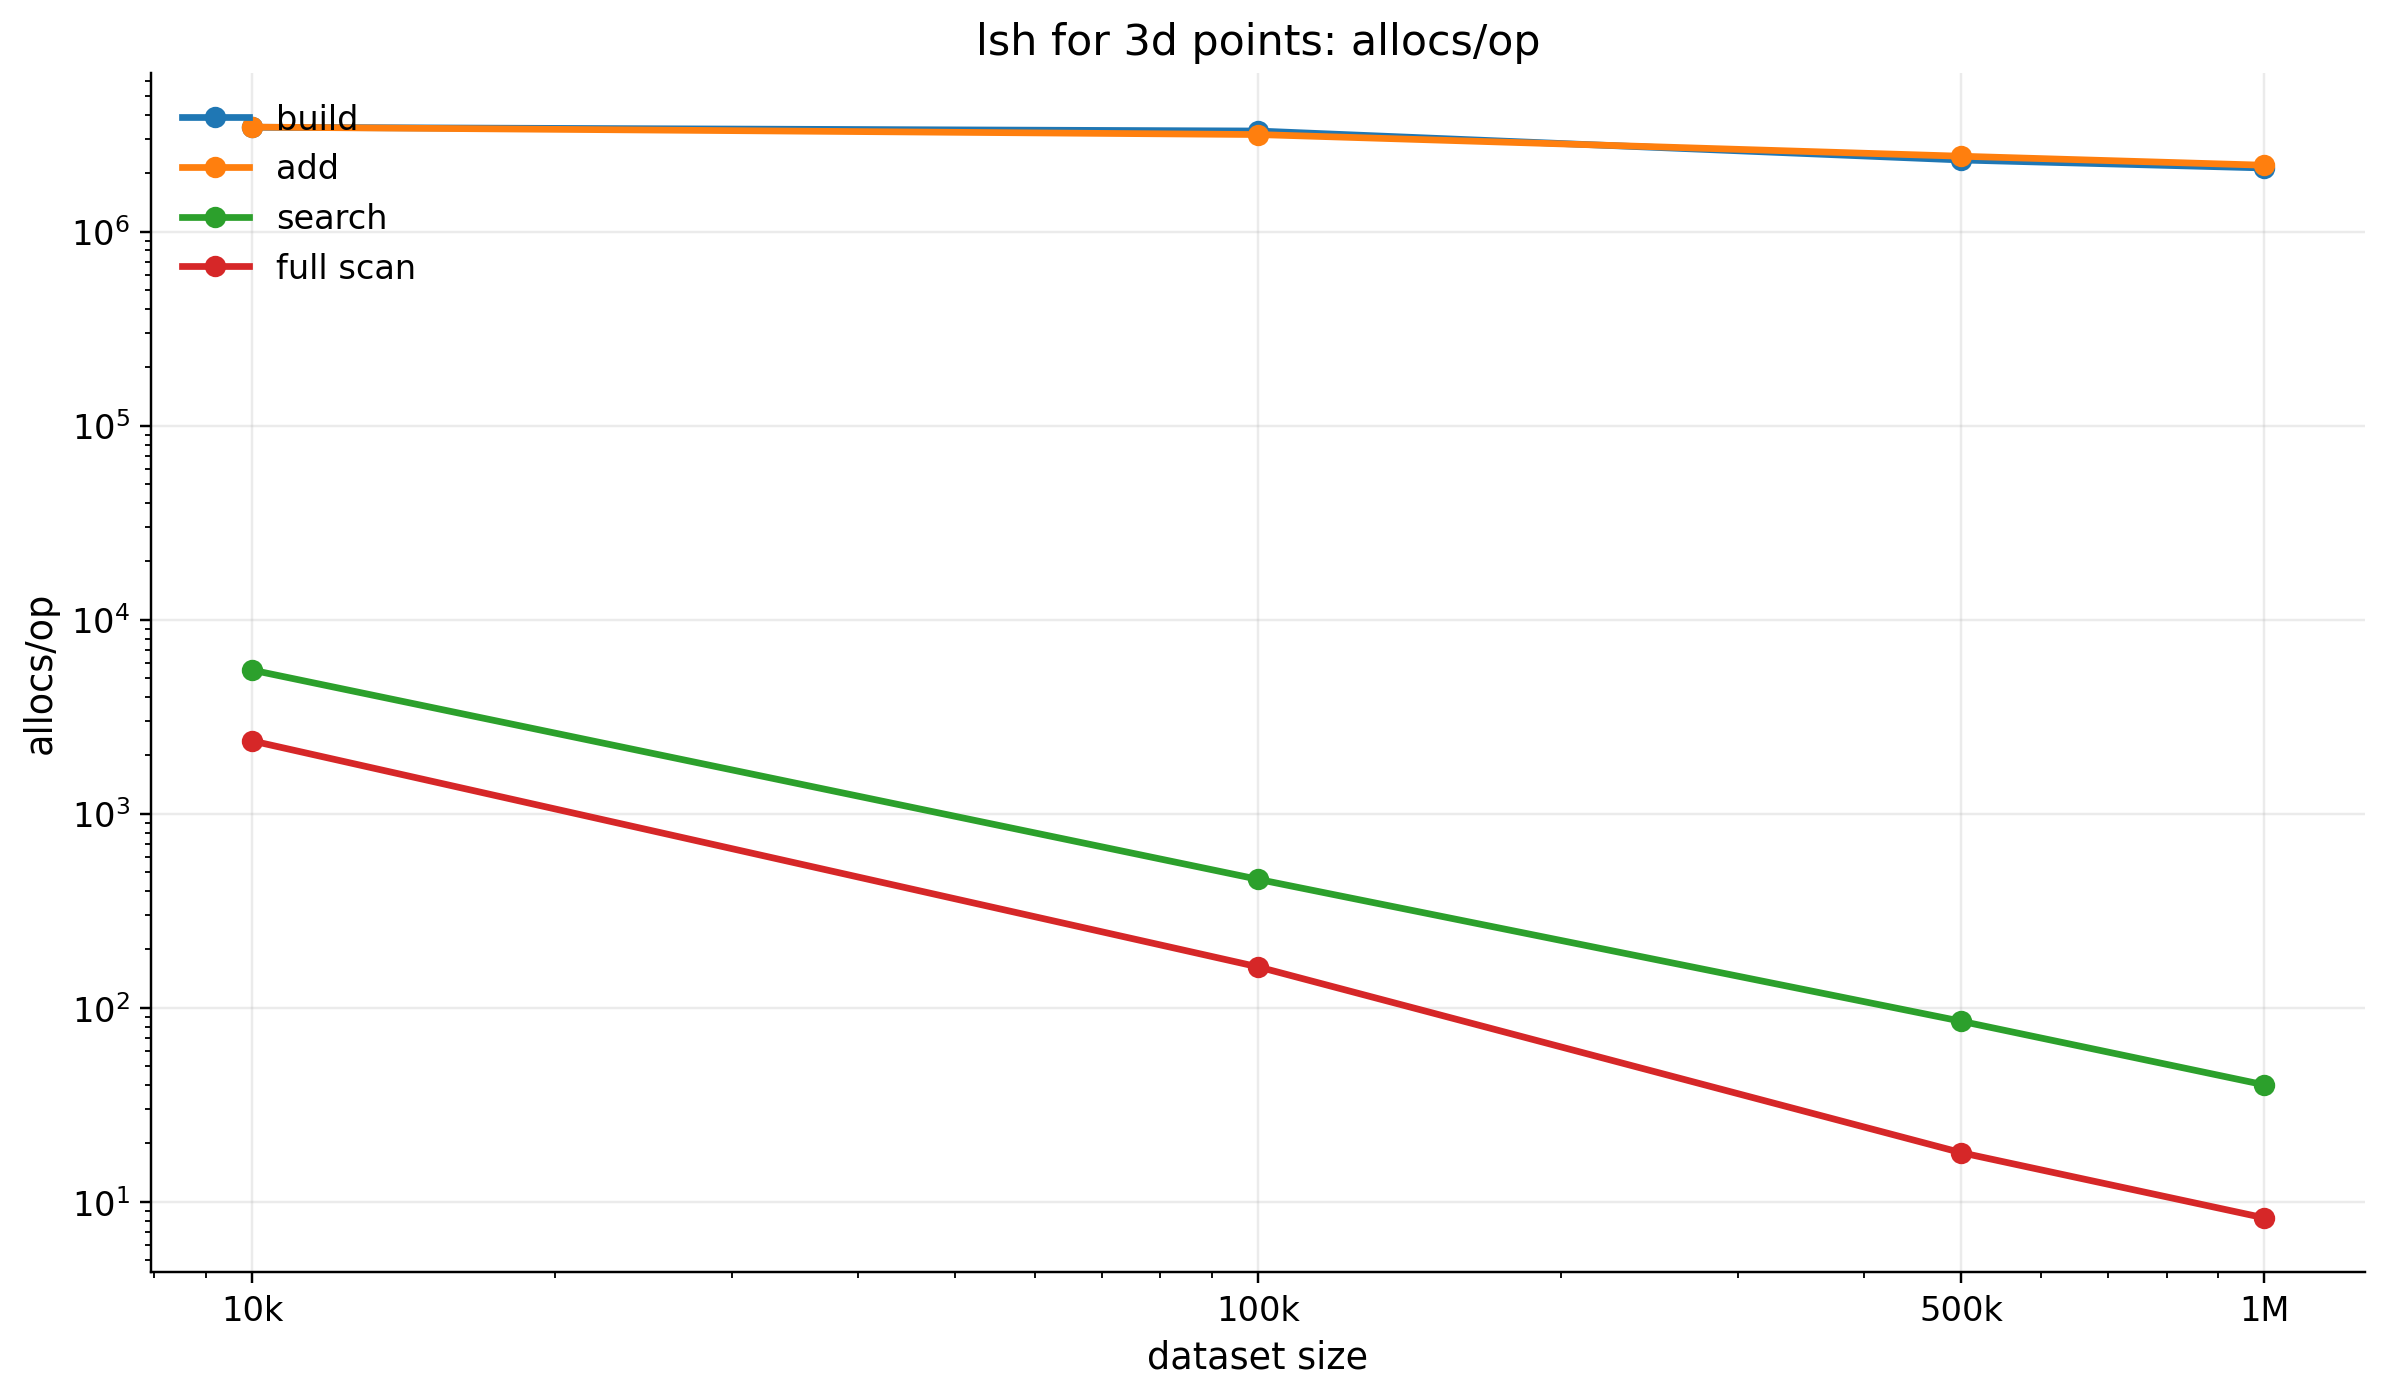
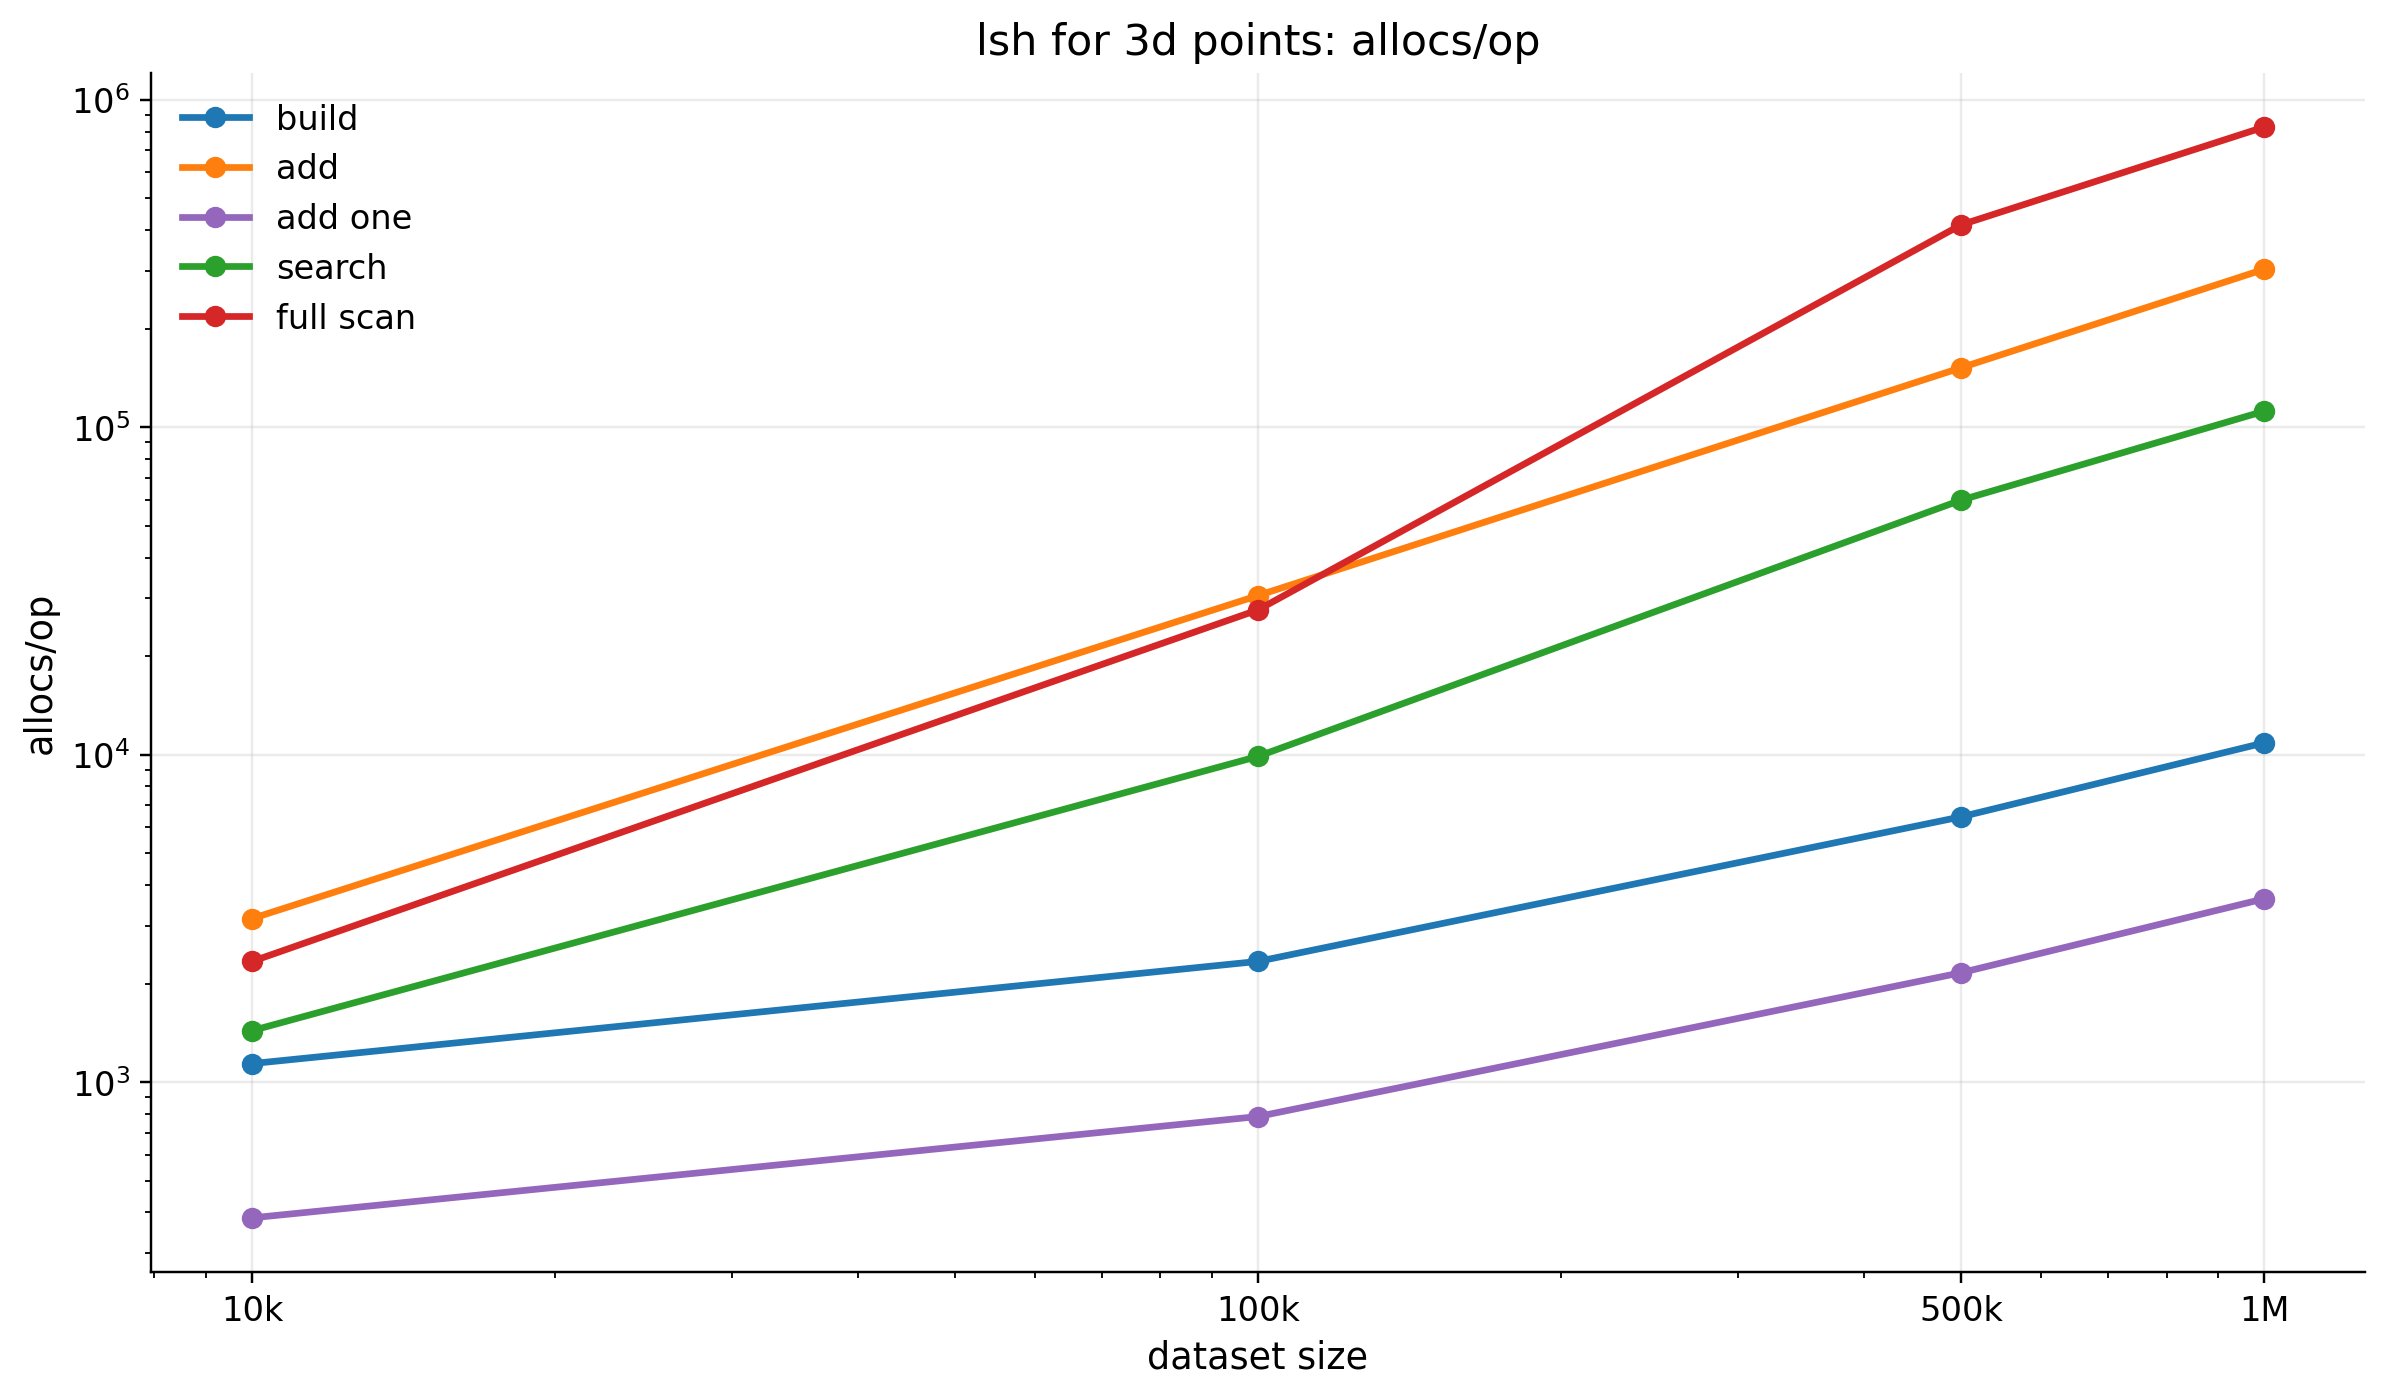
fix lsh

diff --git a/scripts/visualize_hw1_benchmarks.py b/scripts/visualize_hw1_benchmarks.py
@@ -32,15 +32,11 @@ OPERATION_CONFIG = {
         "title": "perfect hash for a fixed key set",
     },
     "lsh": {
-        "time": [
-            ("build", "build", "#1f77b4"),
-            ("add", "add", "#ff7f0e"),
-            ("search", "search", "#2ca02c"),
-            ("fullscan", "full scan", "#d62728"),
-        ],
+        "time": [],
         "raw": [
             ("build", "build", "#1f77b4"),
             ("add", "add", "#ff7f0e"),
+            ("add_one", "add one", "#9467bd"),
             ("search", "search", "#2ca02c"),
             ("fullscan", "full scan", "#d62728"),
         ],
@@ -156,6 +152,104 @@ def plot_perfect_time(summary_dir: Path, raw_dir: Path, out_dir: Path) -> None:
         save(fig, out_dir / "get_time_pretty.png")
 
 
+def lsh_query_count(size: int) -> int:
+    count = size // 1000
+    if count < 50:
+        return 50
+    if count > 200:
+        return 200
+    return count
+
+
+def plot_lsh_time(summary_dir: Path, out_dir: Path) -> None:
+    build_summary = summary_dir / "build_summary.tsv"
+    add_summary = summary_dir / "add_summary.tsv"
+    add_one_summary = summary_dir / "add_one_summary.tsv"
+    search_summary = summary_dir / "search_summary.tsv"
+    fullscan_summary = summary_dir / "fullscan_summary.tsv"
+
+    if build_summary.exists() or add_summary.exists():
+        fig, ax = plt.subplots()
+        used_sizes = []
+
+        if build_summary.exists():
+            df = load_tsv(build_summary, ["size", "mean", "ci", "runs"]).sort_values("size")
+            x = df["size"].to_numpy()
+            y = (df["mean"] / df["size"]).to_numpy()
+            ci = (df["ci"] / df["size"]).to_numpy()
+            used_sizes.extend(df["size"].tolist())
+            ax.plot(x, y, marker="o", linewidth=2.4, color="#1f77b4", label="build (ns/point)")
+            ax.fill_between(x, y - ci, y + ci, alpha=0.18, color="#1f77b4")
+
+        if add_summary.exists():
+            df = load_tsv(add_summary, ["size", "mean", "ci", "runs"]).sort_values("size")
+            batch_sizes = (df["size"] // 10).clip(lower=1)
+            x = df["size"].to_numpy()
+            y = (df["mean"] / batch_sizes).to_numpy()
+            ci = (df["ci"] / batch_sizes).to_numpy()
+            used_sizes.extend(df["size"].tolist())
+            ax.plot(x, y, marker="o", linewidth=2.4, color="#ff7f0e", label="add 10% batch (ns/point)")
+            ax.fill_between(x, y - ci, y + ci, alpha=0.18, color="#ff7f0e")
+
+        maybe_set_log_scale(ax, used_sizes, "x")
+        set_size_ticks(ax, used_sizes)
+        ax.set_xlabel("dataset size")
+        ax.set_ylabel("ns/point")
+        ax.set_title("lsh indexing: build vs add")
+        ax.legend(loc="upper left")
+        save(fig, out_dir / "index_time_pretty.png")
+
+    if add_one_summary.exists():
+        fig, ax = plt.subplots()
+        df = load_tsv(add_one_summary, ["size", "mean", "ci", "runs"]).sort_values("size")
+        x = df["size"].to_numpy()
+        y = df["mean"].to_numpy()
+        ci = df["ci"].to_numpy()
+
+        ax.plot(x, y, marker="o", linewidth=2.4, color="#9467bd", label="add one point")
+        ax.fill_between(x, y - ci, y + ci, alpha=0.18, color="#9467bd")
+        maybe_set_log_scale(ax, x, "x")
+        maybe_set_log_scale(ax, y, "y")
+        set_size_ticks(ax, x)
+        ax.set_xlabel("dataset size")
+        ax.set_ylabel("ns/op")
+        ax.set_title("lsh incremental add: one point")
+        ax.legend(loc="upper left")
+        save(fig, out_dir / "add_one_time_pretty.png")
+
+    if search_summary.exists() or fullscan_summary.exists():
+        fig, ax = plt.subplots()
+        used_sizes = []
+
+        if search_summary.exists():
+            df = load_tsv(search_summary, ["size", "mean", "ci", "runs"]).sort_values("size")
+            queries = df["size"].astype(int).map(lsh_query_count)
+            x = df["size"].to_numpy()
+            y = (df["mean"] / queries).to_numpy()
+            ci = (df["ci"] / queries).to_numpy()
+            used_sizes.extend(df["size"].tolist())
+            ax.plot(x, y, marker="o", linewidth=2.4, color="#2ca02c", label="search (ns/query)")
+            ax.fill_between(x, y - ci, y + ci, alpha=0.18, color="#2ca02c")
+
+        if fullscan_summary.exists():
+            df = load_tsv(fullscan_summary, ["size", "mean", "ci", "runs"]).sort_values("size")
+            queries = df["size"].astype(int).map(lsh_query_count)
+            x = df["size"].to_numpy()
+            y = (df["mean"] / queries).to_numpy()
+            ci = (df["ci"] / queries).to_numpy()
+            used_sizes.extend(df["size"].tolist())
+            ax.plot(x, y, marker="o", linewidth=2.4, color="#d62728", label="full scan (ns/query)")
+            ax.fill_between(x, y - ci, y + ci, alpha=0.18, color="#d62728")
+
+        maybe_set_log_scale(ax, used_sizes, "x")
+        set_size_ticks(ax, used_sizes)
+        ax.set_xlabel("dataset size")
+        ax.set_ylabel("ns/query")
+        ax.set_title("lsh search: indexed vs full scan")
+        ax.legend(loc="upper left")
+        save(fig, out_dir / "search_time_pretty.png")
+
+
 def plot_time(summary_dir: Path, out_dir: Path, algo: str) -> None:
     fig, ax = plt.subplots()
     used_sizes = []
@@ -229,6 +323,11 @@ def main() -> None:
         if legacy_plot.exists():
             legacy_plot.unlink()
         plot_perfect_time(summary_dir, raw_dir, out_dir)
+    elif algo == "lsh":
+        legacy_plot = out_dir / "time_pretty.png"
+        if legacy_plot.exists():
+            legacy_plot.unlink()
+        plot_lsh_time(summary_dir, out_dir)
     else:
         plot_time(summary_dir, out_dir, algo)
     plot_raw_metric(raw_dir, out_dir, algo, "allocs", "allocs_pretty.png", "allocs/op")

diff --git a/hw1/lsh/benchmark_test.go b/hw1/lsh/benchmark_test.go
@@ -38,17 +38,21 @@ func BenchmarkTableAdd(b *testing.B) {
 	cfg := Config{Tables: 4, CellSize: 0.5, Radius: 0.2, Seed: 1}
 
 	for _, size := range benchmarkSizes(b) {
-		points := randomPoints(int64(size*97), size)
+		seed := int64(size * 97)
+		points := randomPoints(seed, size)
+		addPoints := benchmarkAddPoints(seed, points, batchAddCount(size))
+
 		b.Run(fmt.Sprintf("size=%d", size), func(b *testing.B) {
 			b.ReportAllocs()
 			for i := 0; i < b.N; i++ {
-				index, err := Build(nil, cfg)
+				index, err := Build(points, cfg)
 				if err != nil {
 					b.Fatalf("Build failed: %v", err)
 				}
 
 				b.StartTimer()
-				for _, point := range points {
+				for j, point := range addPoints {
+					point.ID = fmt.Sprintf("%s-%d-%d", point.ID, i, j)
 					if err := index.Add(point); err != nil {
 						b.Fatalf("Add failed: %v", err)
 					}
@@ -56,7 +60,37 @@ func BenchmarkTableAdd(b *testing.B) {
 				b.StopTimer()
 			}
 
-			reportItemMetrics(b, size)
+			reportItemMetrics(b, len(addPoints))
+		})
+	}
+}
+
+func BenchmarkTableAddOne(b *testing.B) {
+	cfg := Config{Tables: 4, CellSize: 0.5, Radius: 0.2, Seed: 1}
+
+	for _, size := range benchmarkSizes(b) {
+		seed := int64(size * 97)
+		points := randomPoints(seed, size)
+		addPoint := benchmarkAddPoints(seed, points, 1)[0]
+
+		b.Run(fmt.Sprintf("size=%d", size), func(b *testing.B) {
+			b.ReportAllocs()
+			for i := 0; i < b.N; i++ {
+				index, err := Build(points, cfg)
+				if err != nil {
+					b.Fatalf("Build failed: %v", err)
+				}
+
+				b.StartTimer()
+				point := addPoint
+				point.ID = fmt.Sprintf("%s-%d", point.ID, i)
+				if err := index.Add(point); err != nil {
+					b.Fatalf("AddOne failed: %v", err)
+				}
+				b.StopTimer()
+			}
+
+			reportItemMetrics(b, 1)
 		})
 	}
 }
@@ -139,6 +173,35 @@ func benchmarkQueries(points []Point) []Point {
 	}
 
 	return queries
+}
+
+func batchAddCount(size int) int {
+	count := size / 10
+	if count < 1 {
+		return 1
+	}
+	return count
+}
+
+func benchmarkAddPoints(seed int64, points []Point, count int) []Point {
+	if count < 1 {
+		count = 1
+	}
+
+	addPoints := make([]Point, count)
+	baseIndex := len(points) / 2
+	for i := 0; i < count; i++ {
+		base := points[(baseIndex+i)%len(points)]
+		offset := float64((int(seed)%11)+1+i%7) * 0.001
+		addPoints[i] = Point{
+			ID: fmt.Sprintf("add-%d-%d", seed, i),
+			X:  base.X + offset,
+			Y:  base.Y - offset/2,
+			Z:  base.Z + offset/3,
+		}
+	}
+
+	return addPoints
 }
 
 func benchmarkSizes(b testing.TB) []int {

diff --git a/hw1/lsh/lsh.go b/hw1/lsh/lsh.go
@@ -208,6 +208,7 @@ func (i *Index) cellFor(tableIndex int, point Point) cell {
 	}
 }
 
+// точное евклидово расстояние 
 func pointDistance(a Point, b Point) float64 {
 	dx := a.X - b.X
 	dy := a.Y - b.Y
